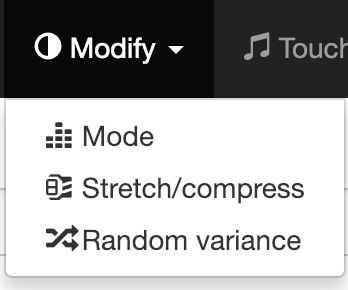
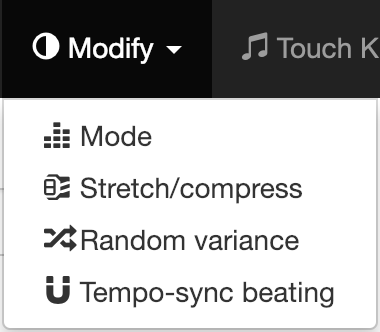
1.0 add tempo-sync beating + minor fixes

Changed region(s): [[0.0, 0.0, 1.0, 1.0], [0.0862, 0.0931, 0.4885, 0.2172], [0.977, 0.869, 1.0, 0.9]]

diff --git a/index.htm b/index.htm
@@ -92,7 +92,7 @@
                 <!--<li><a href="#" id="modify_extend">Extend/repeat</a></li>-->
                 <li><a href="#" id="modify_stretch"><span class="glyphicon glyphicon-compressed" aria-hidden="true"></span> Stretch/compress</a></li>
                 <li><a href="#" id="modify_random_variance"><span class="glyphicon glyphicon-random" aria-hidden="true"></span> Random variance</a></li>
-                <!--<li><a href="#" id="modify_quantize_to_bpm">Quantize to BPM</a></li>-->
+                <li><a href="#" id="modify_sync_beating"><span class="glyphicon glyphicon-magnet" aria-hidden="true"></span> Tempo-sync beating</a></li>
                 <!--<li><a href="#" id="modify_octave_reduce">Octave reduce</a></li>-->
               </ul>
             </li>
@@ -217,7 +217,6 @@
                           <option value="sawtooth">Sawtooth</option>
                           <option value="square">Square</option>
                           <option value="sine">Sine</option>
-                          <!--<option value="bell">Bell</option>-->
                         </select>
                       </div>
                       <div class="form-group">
@@ -327,6 +326,7 @@
 
     <!-- Generator Modals -->
     <div id="modal_generate_equal_temperament" class="modal" title="Generate equal temperament">
+      <a href="guide.htm#equal-temperaments" target="_blank"><span class="glyphicon glyphicon-question-sign" aria-hidden="true" style="float:right;"></span></a>
       <form>
         <label>Number of divisions</label>
         <div class="form-group">
@@ -468,17 +468,37 @@
       </form>
     </div>
 
-    <!--<div id="modal_modify_key_transpose" class="modal" title="Key transpose">
-      <p>Set 1/1 to another note of your scale.</p>
+    <div id="modal_modify_sync_beating" class="modal" title="Tempo-sync beating">
+      <a href="guide.htm#tempo-sync-beating" target="_blank"><span class="glyphicon glyphicon-question-sign" aria-hidden="true" style="float:right;"></span></a>
       <form>
-        <label>Key for 1/1</label>
+        <label>BPM</label>
         <div class="form-group">
-          <input id="input_modify_key_transpose" name="" type="number" class="form-control" min="0" max="99999" step="1"></input>
+          <input id="input_modify_sync_beating_bpm" name="" type="number" class="form-control" value="100" placeholder="100"></input>
+        </div>
+
+        <label>Resolution</label>
+        <div class="form-group">
+          <select id="select_sync_beating_resolution" name="" class="form-control">
+            <option value="16">16 (2^4)</option>
+            <option value="24">24 (2^3 . 3)</option>
+            <option value="27">27 (3^3)</option>
+            <option value="30">30 (2 . 3 . 5)</option>
+            <option value="32">32 (2^5)</option>
+            <option value="48">48 (2^4 . 3)</option>
+            <option value="64" selected>64 (2^6)</option>
+            <option value="96">96 (2^5 . 3)</option>
+            <option value="128">128 (2^7)</option>
+            <option value="144">144 (2^4 . 3^2)</option>
+            <option value="192">192 (2^6 . 3)</option>
+            <option value="256">256 (2^8)</option>
+            <option value="512">512 (2^9)</option>
+            <option value="1024">1024 (2^10)</option>
+            <option value="2048">2048 (2^11)</option>
+            <option value="2310">2310 (2 . 3 . 5 . 7 . 11)</option>
+          </select>
         </div>
       </form>
-    </div>-->
-
-
+    </div>
 
     <!-- Export Modals -->
     <div id="modal_share_url" class="modal" title="Share scale as URL">

diff --git a/guide.htm b/guide.htm
@@ -194,6 +194,7 @@
                 <li><a href="#mode">Mode</a></li>
                 <li><a href="#stretch-compress">Stretch/compress</a></li>
                 <li><a href="#random-variance">Random variance</a></li>
+                <li><a href="#tempo-sync-beating">Tempo-sync beating</a></li>
               </ul>
             </li>
           </ul>
@@ -367,6 +368,12 @@
       <h3 id="random-variance">Random variance</h3>
       <p>Applies a random detuning of each note in the scale. If the checkbox is ticked, this will also detune the octave. If unticked, the octave will remain unchanged.</p>
       <p class="text-center"><a href="assets/img/guide/random-variance.png" target="_blank"><img src="assets/img/guide/random-variance.png" /></a></p>
+
+      <h3 id="tempo-sync-beating">Tempo-sync beating</h3>
+      <p>This retunes each note of your scale to the nearest harmonic and then tunes the base frequency to match the BPM. This can result in LFO-like pulsations when playing chords.</p>
+      <p>The effect is most effective when using "rich" harmonic sounds (e.g. sawtooth waves) on a synth with excellent intonation accuracy (e.g. almost all digital synths).</p>
+      <p class="text-center"><a href="assets/img/guide/tempo-sync-beating.png" target="_blank"><img src="assets/img/guide/tempo-sync-beating.png" /></a></p>
+      <p>Resolution allows you to control how much retuning is applied. Low values will result in a more drastic retuning of your original scale; in some cases this will result in notes converging on the same note, resulting in duplicates. For more obvious tempo-synced effects, choose a resolution that is a power of 2, e.g. 32, 64, or 128.</p>
 
       <h2 id="synthesizer">Synthesizer</h2>
       <p>Scale Workshop has a built-in synth so that you can play and hear your scales. This is useful for auditioning the scale you're working on, however it is very simple and isn't recommended for live performance.</p>

diff --git a/js/modifiers.js b/js/modifiers.js
@@ -218,6 +218,66 @@ function modify_mode() {
 
 }
 
+// sync beating
+function modify_sync_beating() {
+
+  // remove white space from tuning data field
+  jQuery( "#txt_tuning_data" ).val( jQuery( "#txt_tuning_data" ).val().trim() );
+
+  if ( isEmpty( jQuery( "#txt_tuning_data" ).val() ) ) {
+
+    alert( "No tuning data to modify." );
+    return false;
+
+  }
+
+  if ( isEmpty( jQuery( "#input_modify_sync_beating_bpm" ).val() ) ) {
+
+    alert( "Please enter a BPM value." );
+    return false;
+
+  }
+
+  // get the fundamental frequency of the scale
+  var fundamental = jQuery( "#input_modify_sync_beating_bpm" ).val() / 60;
+  debug(fundamental);
+
+  var resolution = jQuery( "#select_sync_beating_resolution" ).val();
+  debug (resolution);
+
+  // loop through all in the scale, convert to ratio, then quantize to fundamental, then convert to cents
+  var lines = document.getElementById("txt_tuning_data").value.split(newlineTest);
+  debug(lines);
+  var new_tuning = "";
+
+  for ( var i = 0; i < lines.length; i++ ) {
+
+    lines[i] = line_to_decimal( lines[i] );
+    new_tuning += toString(Math.round(lines[i] * resolution)) + "/" + toString(resolution) + unix_newline;
+
+  }
+  new_tuning = new_tuning.trim(); // remove final newline
+
+  debug(new_tuning);
+
+  // set tuning base frequency to some multiple of the fundamental, +/- 1 tritone from the old base frequency
+  var basefreq_lowbound = jQuery('#txt_base_frequency').val() * 0.7071067;
+  var basefreq = fundamental;
+  do {
+    basefreq = basefreq * 2;
+  } while ( basefreq < basefreq_lowbound );
+
+  // update fields and parse
+  jQuery( "#txt_tuning_data" ).val( new_tuning );
+  jQuery( "#txt_base_frequency" ).val( basefreq );
+  parse_tuning_data();
+
+  jQuery( "#modal_modify_sync_beating" ).dialog( "close" );
+
+  // success
+  return true;
+}
+
 // key transpose
 function modify_key_transpose() {
 

diff --git a/js/events.js b/js/events.js
@@ -251,15 +251,15 @@ jQuery( document ).ready( function() {
 
   } );
 
-  // modify_mode option clicked
-  jQuery( "#modify_key_transpose" ).click( function( event ) {
+  // modify_sync_beating option clicked
+  jQuery( "#modify_sync_beating" ).click( function( event ) {
 
     event.preventDefault();
-    jQuery( "#modal_modify_key_transpose" ).dialog({
+    jQuery( "#modal_modify_sync_beating" ).dialog({
       modal: true,
       buttons: {
         OK: function() {
-          modify_key_transpose();
+          modify_sync_beating();
         },
         Cancel: function() {
           jQuery( this ).dialog( 'close' );
@@ -352,6 +352,14 @@ jQuery( document ).ready( function() {
   // Synth Settings - Waveform
   jQuery( "#input_select_synth_waveform" ).change( function( event ) {
     synth.waveform = jQuery( '#input_select_synth_waveform' ).val();
+    update_page_url();
+  } );
+
+
+
+  // Synth Settings - Amplitude Envelope
+  jQuery( "#input_select_synth_amp_env" ).change( function( event ) {
+    update_page_url();
   } );
 
 

diff --git a/js/scaleworkshop.js b/js/scaleworkshop.js
@@ -14,7 +14,7 @@ jQuery(window).on('popstate', function() {
  * GLOBALS
  */
 
-const APP_TITLE = "Scale Workshop 0.9.9";
+const APP_TITLE = "Scale Workshop 1.0.0";
 const TUNING_MAX_SIZE = 128;
 let newline = localStorage && localStorage.getItem('newline') === 'windows' ? '\r\n' : '\n'
 const newlineTest = /\r?\n/;

diff --git a/README.md b/README.md
@@ -87,6 +87,11 @@ Please base any work on develop branch, and pull requests should also be made ag
 
 ## Changelog
 
+### 1.0.0
+* Stable version
+* New modifier added: tempo-sync beating
+* Minor bug fixes
+
 ### 0.9.9
 * Added a selection of preset scales
 * Fix issue using delay in some situations
